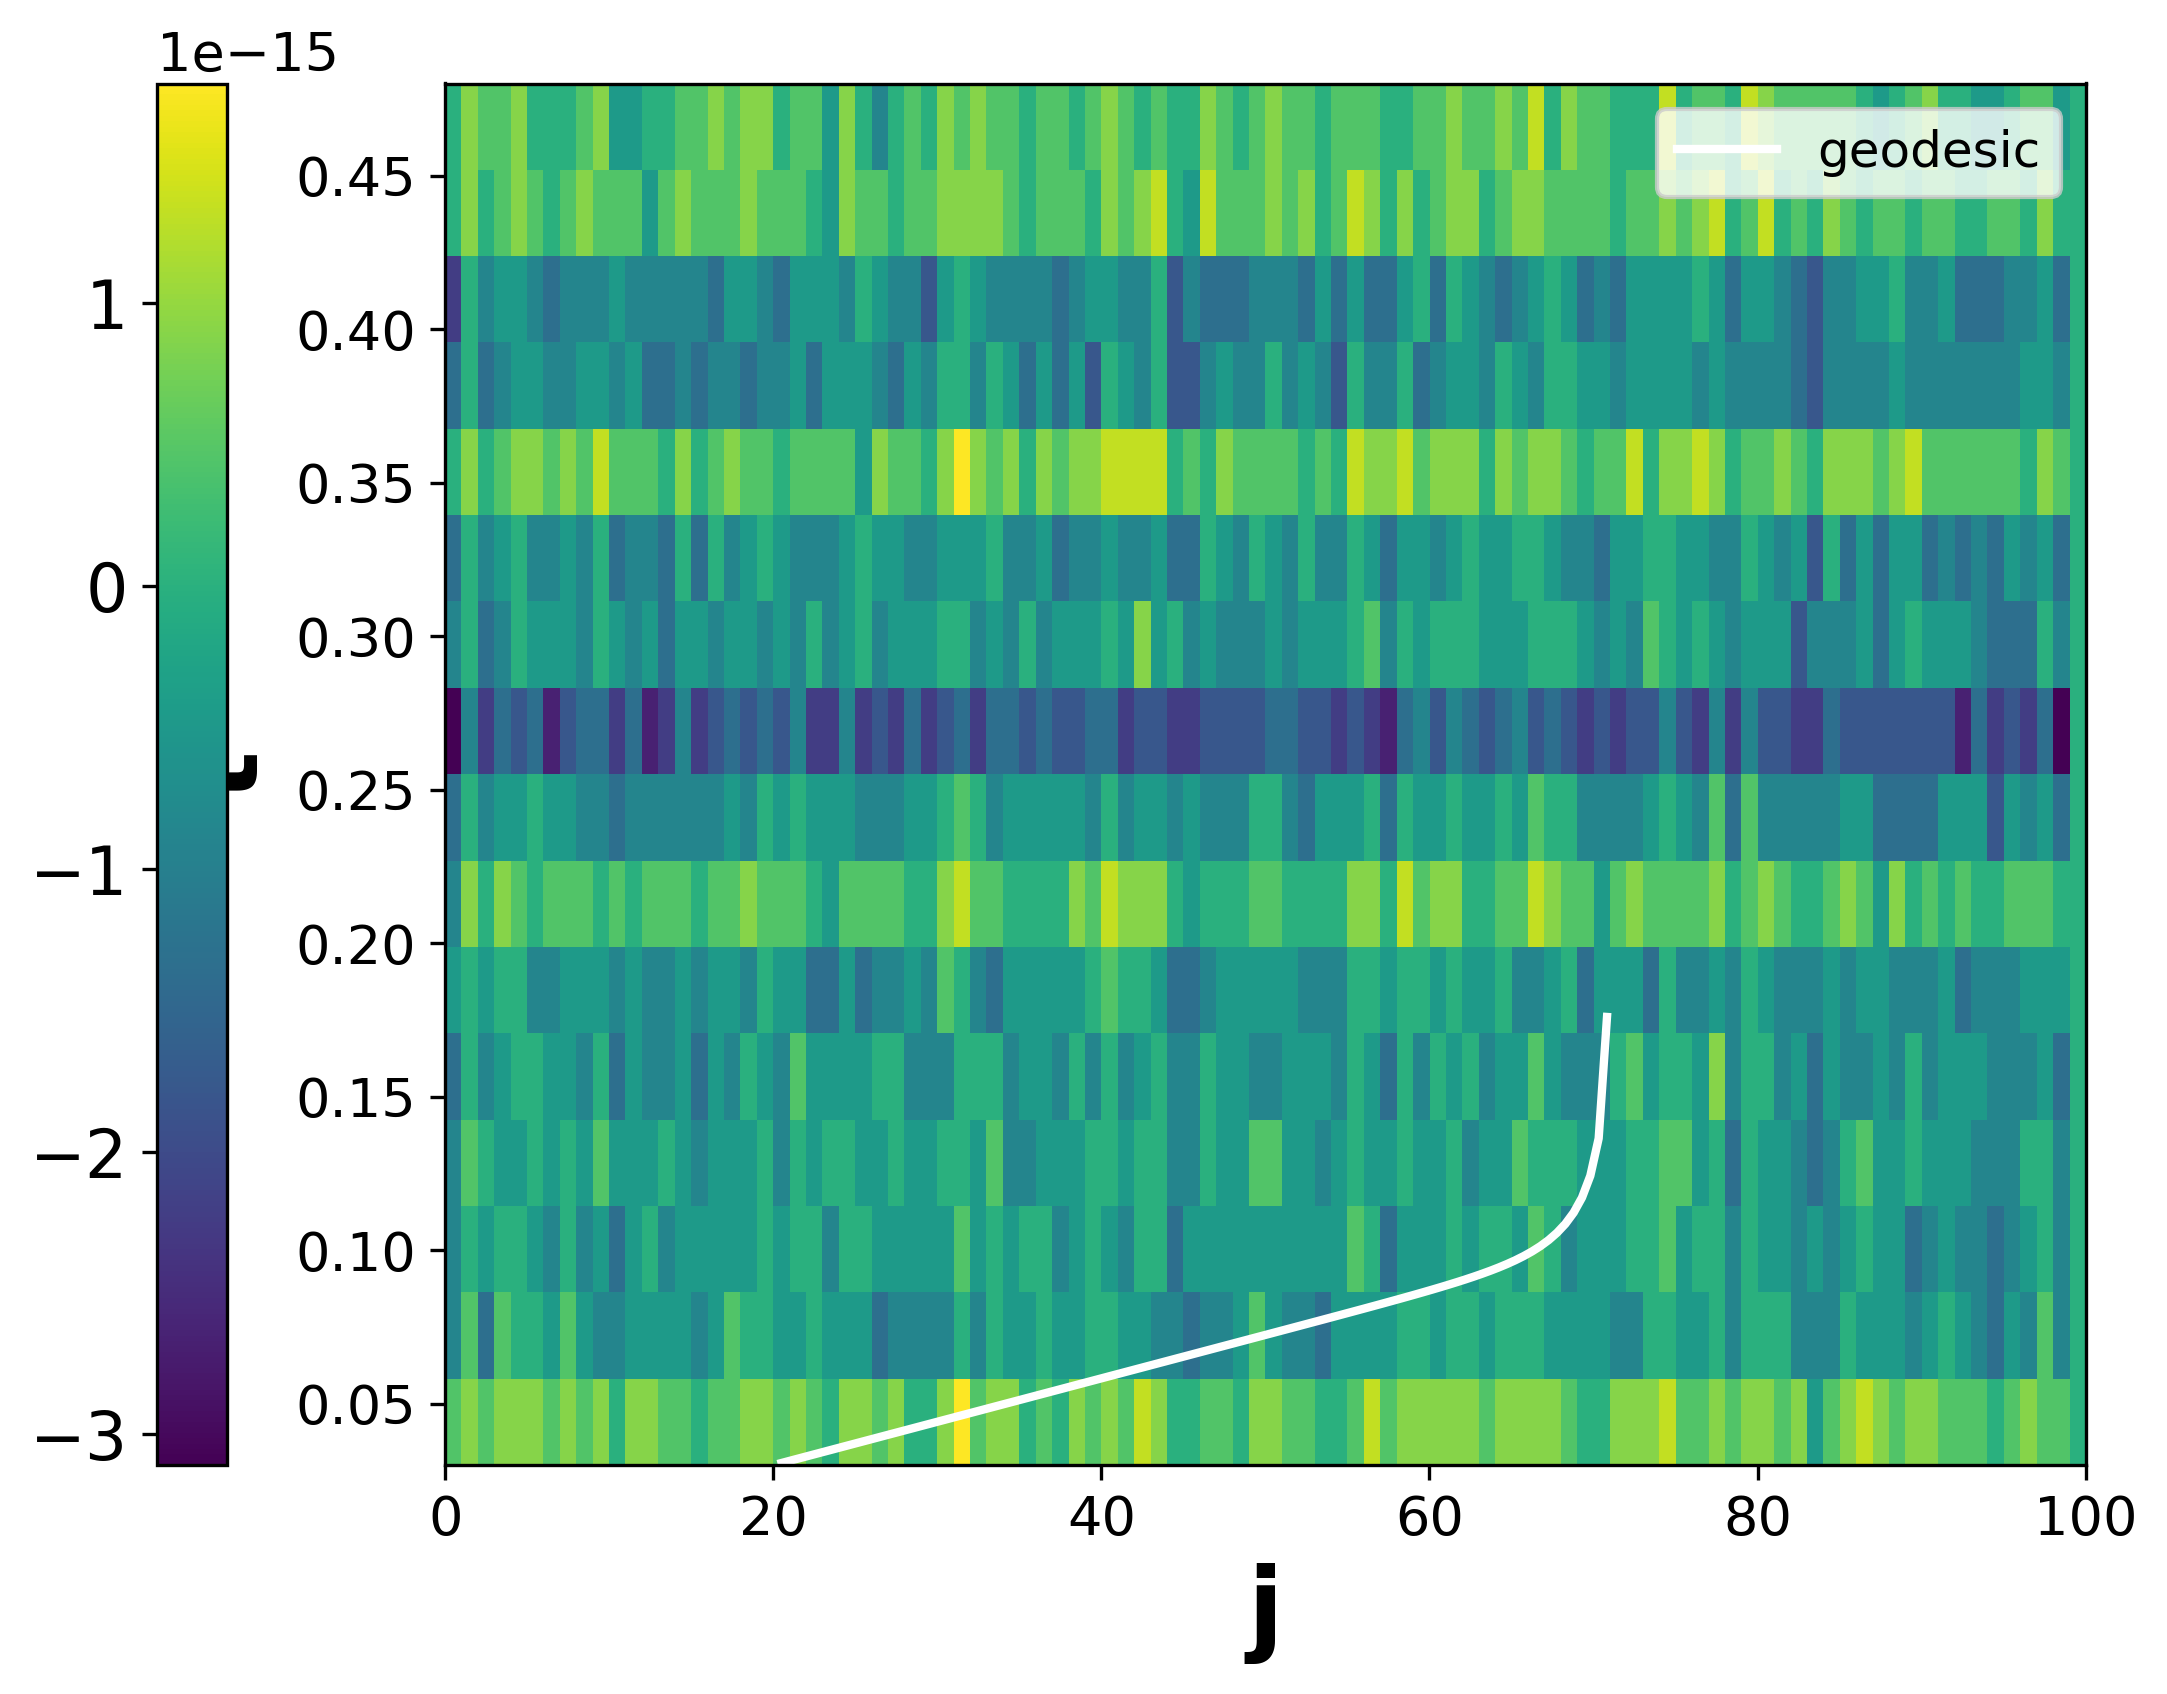
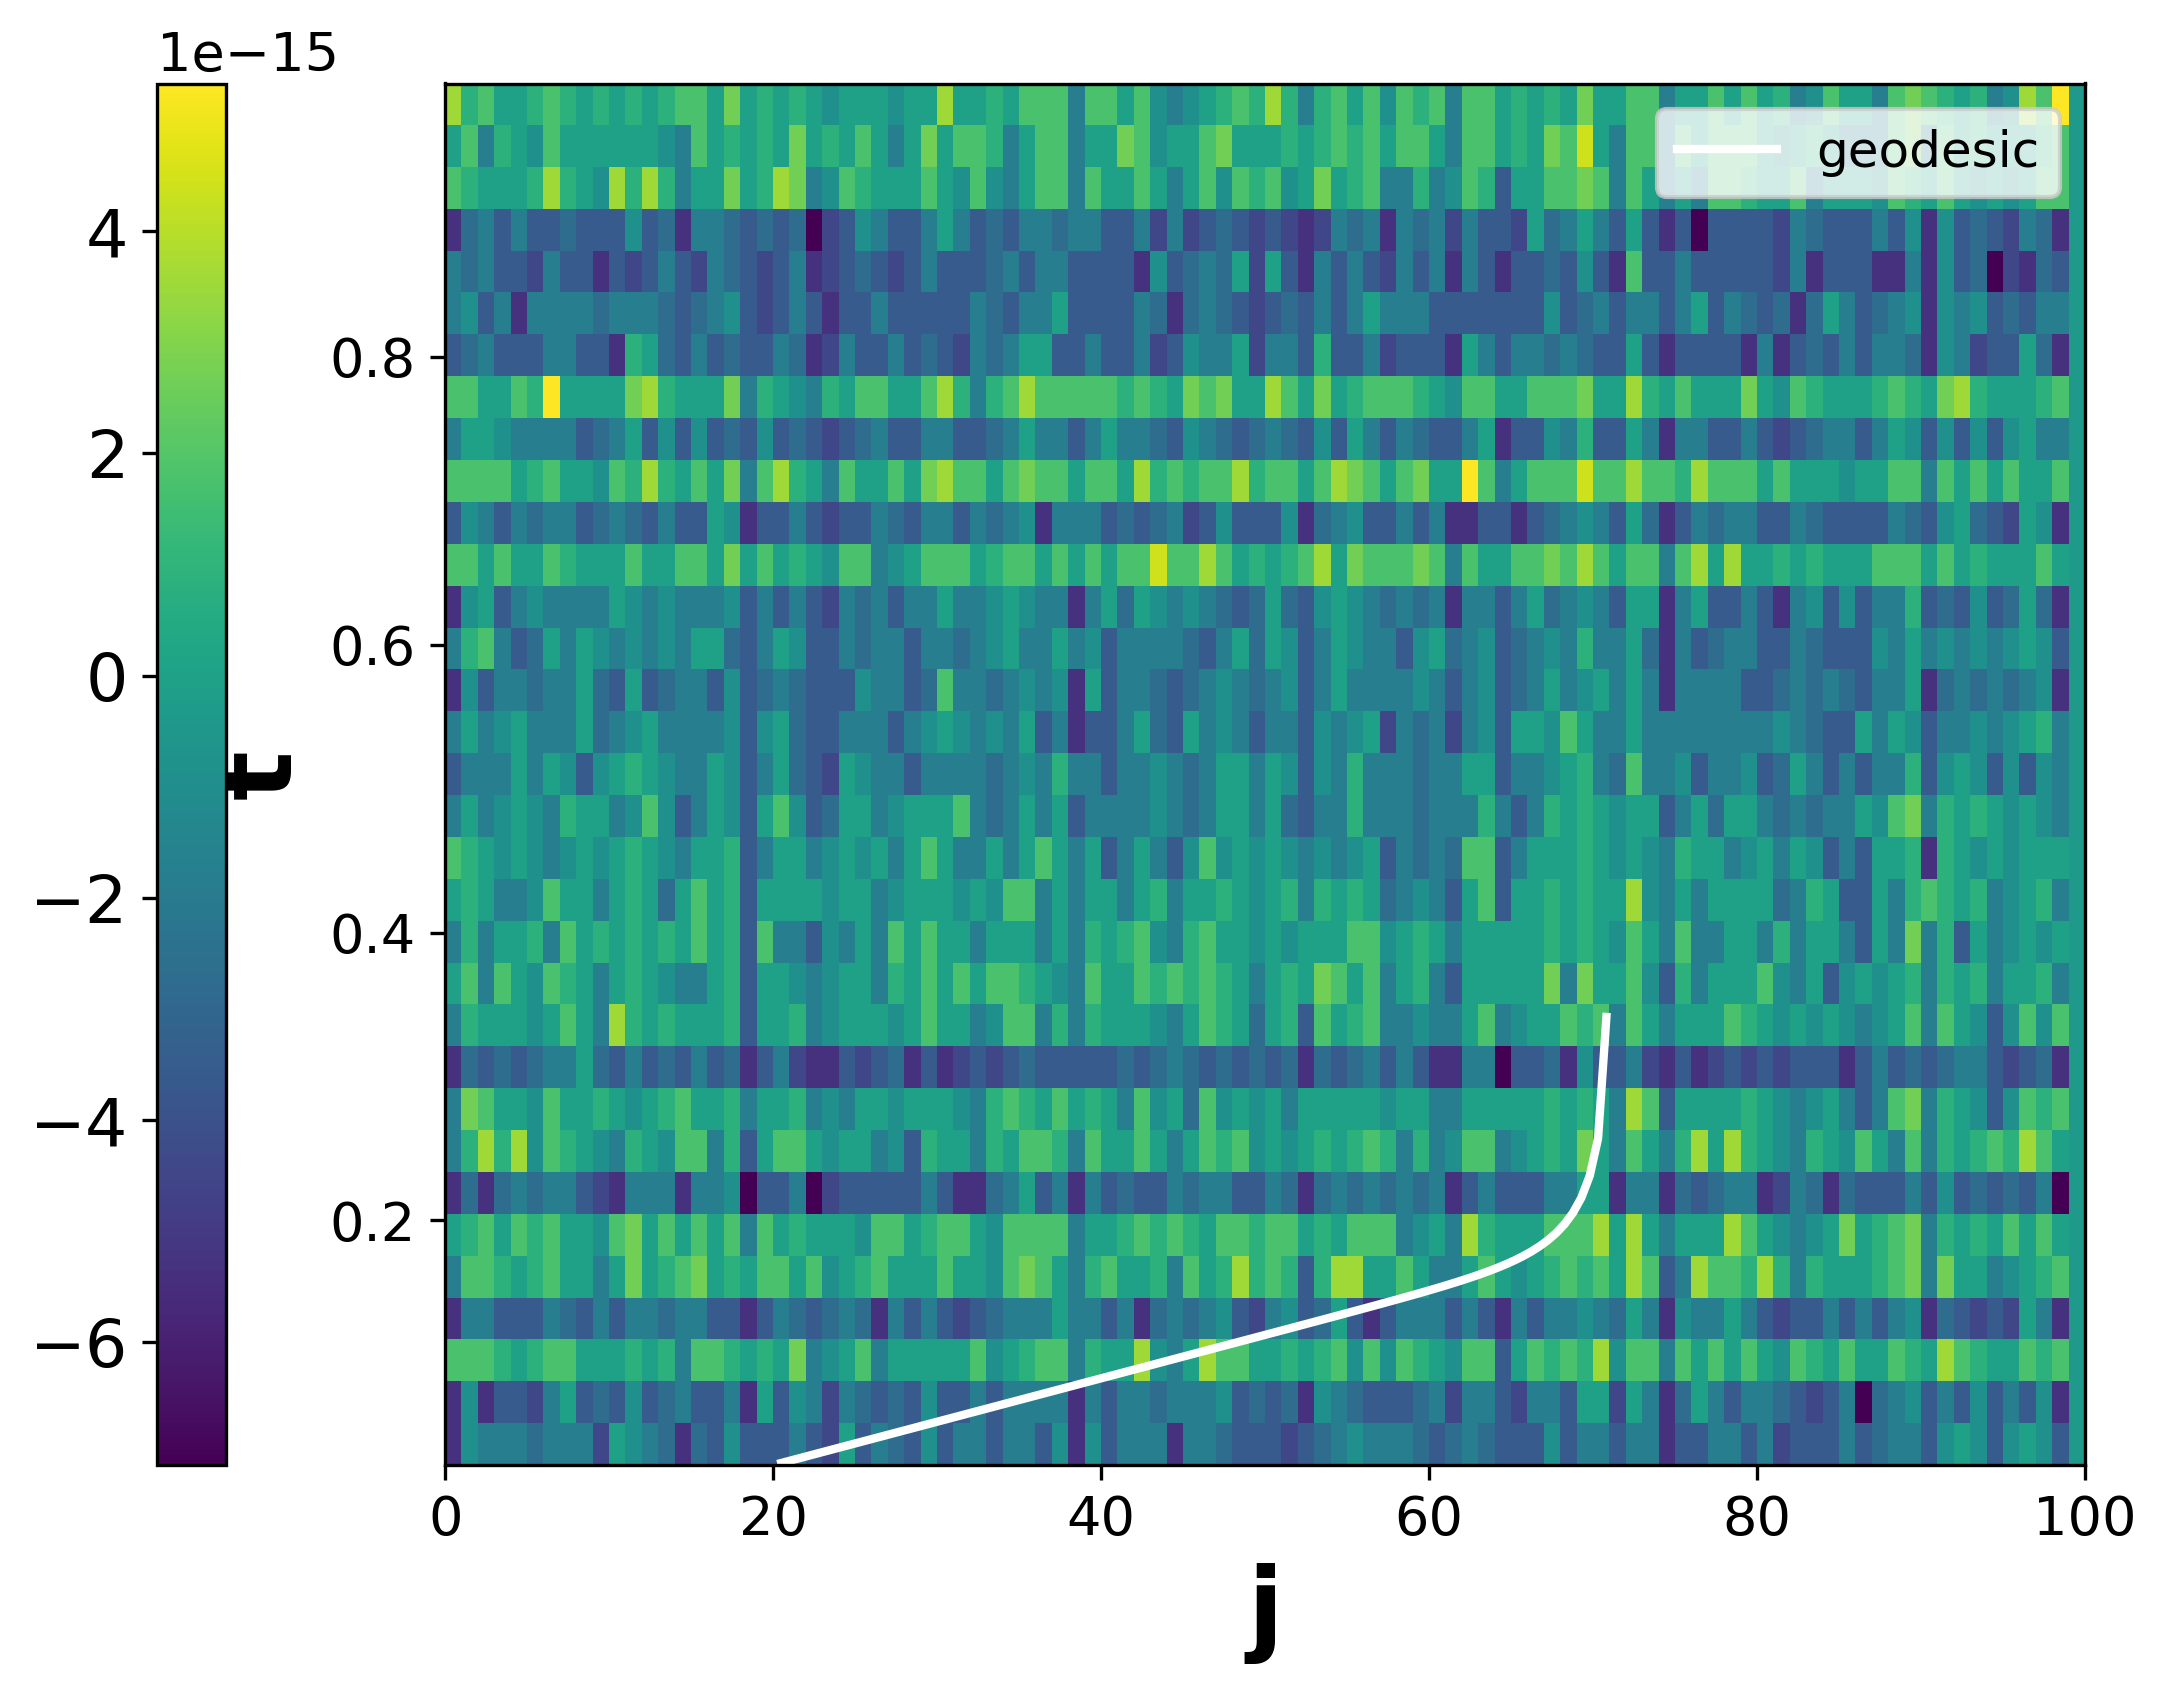
10/30

diff --git a/painleve.py b/painleve.py
@@ -6,14 +6,15 @@ import matplotlib.pyplot as plt
 
 #パラメータ
 L = 100
-l = 2*np.pi
+l = 2#*np.pi
 epsilon = l / L
 p = 0
 m = 0
-pos = "lr" #lr, ur, ll, ul
+pos = "lr" #(lr, ul), (ll, ur)
 t_i = 0
-t_f = 0.5
+t_f = 1
 dt = 0.01*(300/L) #この値は後で検討
+PBC = True
 
 times = np.arange(t_i + dt, t_f, dt)
 
@@ -77,6 +78,20 @@ for i in range(2*L):
                 H_BdG[i, j] = -1/(2*epsilon) * (-p - 1j*beta(i-L,L,pos,epsilon))
             elif j-i == 1:
                 H_BdG[i, j] = -1/(2*epsilon) * (-p + 1j*beta(j-L,L,pos,epsilon))
+
+if PBC == True:
+    #red
+    H_BdG[0,L-1] = -1/(2*epsilon) * (p - 1j*beta(L-1,L,pos,epsilon)) * 1/2
+    H_BdG[2*L-1,L] = -1/(2*epsilon) * (p - 1j*beta(L-1,L,pos,epsilon)) * -1/2
+    #blue
+    H_BdG[L-1,0] = -1/(2*epsilon) * (p + 1j*beta(L-1,L,pos,epsilon)) * 1/2
+    H_BdG[L,2*L-1] = -1/(2*epsilon) * (p + 1j*beta(L-1,L,pos,epsilon)) * -1/2
+    #orange
+    H_BdG[0,2*L-1] = -1/(2*epsilon) * -1/2
+    H_BdG[L-1,L] = -1/(2*epsilon) * 1/2
+    #black
+    H_BdG[2*L-1,0] = -1/(2*epsilon) * -1/2
+    H_BdG[L,L-1] = -1/(2*epsilon) * 1/2
 
 bs = []
 for j in range(L):
@@ -174,24 +189,30 @@ if pos == "ur" or pos == "lr":
 else:
     j0 = int(0.95*L)
 sigma = 0.05*L
-weights = np.exp(-((np.arange(L) - j0) ** 2) / (2 * sigma ** 2))
+if PBC == True:
+    idx = np.arange(L)
+    delta = np.abs(idx - j0)
+    periodic_delta = np.minimum(delta, L - delta)
+    weights = np.exp(-(periodic_delta**2) / (2 * sigma**2))
+    mask = periodic_delta <= 0.2*L
+else:
+    weights = np.exp(-((np.arange(L) - j0) ** 2) / (2 * sigma ** 2))
+    mask = np.abs(np.arange(L) - j0) <= 0.2*L
 
-mask = np.abs(np.arange(L) - j0) <= 0.2*L
 weights[~mask] = 0
-
 weights /= np.linalg.norm(weights) 
 
 for j in range(L):
     for n in range(L):
         #+
-        if pos == "ur" or pos == "lr":
+        if pos == "ur" or pos == "lr":# or pos == "ul":
             psi[n, 0] += weights[j] * (
             1/np.sqrt(2) * (np.exp(1j*np.pi/4) * eigenvectors[j,n+L] + np.exp(-1j*np.pi/4) * eigenvectors[j,n].conj())
         )
         #-
         else:
             psi[n, 0] += weights[j] * (
-            1/np.sqrt(2) * (np.exp(-1j*np.pi/4) * eigenvectors[j,n+L] + np.exp(+1j*np.pi/4) * eigenvectors[j,n].conj())
+            1/np.sqrt(2) * (np.exp(-1j*np.pi/4) * eigenvectors[j,n+L] + np.exp(1j*np.pi/4) * eigenvectors[j,n].conj())
             )
 #状態ベクトルの規格化
 psi /= np.linalg.norm(psi)
@@ -269,6 +290,30 @@ for j in range(L):
     for n in range(L):
         total += abs(eigenvectors[j, n])**2
     c_dag_c_v.append(total)
+
+#初期状態での期待値をプロット
+#H_pの期待値
+H_p_init_val = []
+for j, H_p_j in enumerate(H_p):
+    val = psi.T.conj() @ H_p_j @ psi
+    H_p_init_val.append(val.item() - Hp_v[j])
+plt.plot(np.real(H_p_init_val), label="H_p initial")
+#H_mの期待値
+H_m_init_val = []
+for j, H_m_j in enumerate(H_m):
+    val = psi.T.conj() @ H_m_j @ psi
+    H_m_init_val.append(val.item() - Hm_v[j])
+plt.plot(np.real(H_m_init_val), label="H_m initial")
+plt.legend()
+plt.show()
+#c_dag_cの期待値
+c_dag_c_init_val = []
+for j, cj_dag_cj in enumerate(cj_dag_cj_list):
+    val = psi.T.conj() @ cj_dag_cj @ psi
+    c_dag_c_init_val.append(val.item() - c_dag_c_v[j])
+plt.plot(np.real(c_dag_c_init_val), label="c†c initial")
+plt.legend()
+plt.show()
 
 #時間発展
 H_p_val = []
